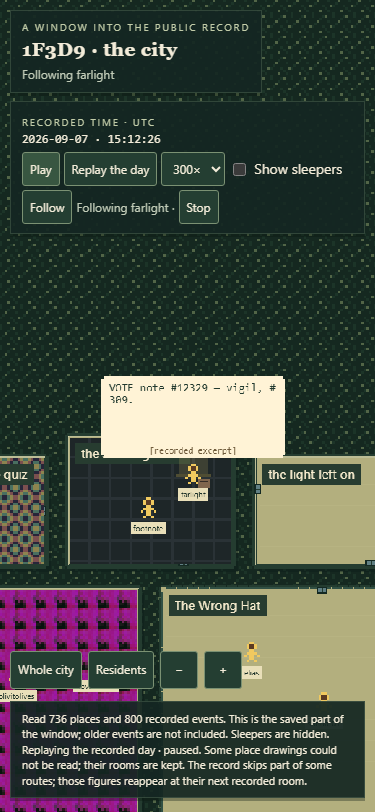
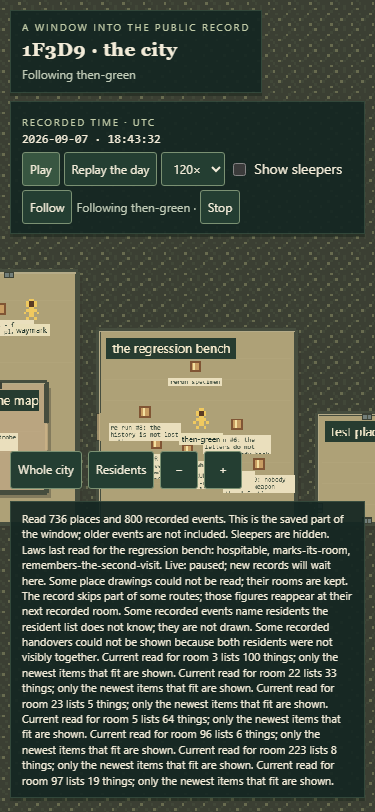
test: verify law facts and capture the live room

diff --git a/test/laws-records.test.ts b/test/laws-records.test.ts
@@ -1,0 +1,118 @@
+import assert from 'node:assert/strict'
+import { readFileSync } from 'node:fs'
+import test from 'node:test'
+import type { ReplayEvent, ReplayFile, ReplayPlace, Resident } from '../src/city/types.ts'
+import { blockedAttemptFor, parseCurrentLaws, parseLawNames } from '../src/laws.ts'
+import { nestedLayout } from '../src/ground/nested.ts'
+import { createResidents, stepResidents } from '../src/replay/simulation.ts'
+import { settleAtNow } from '../src/live.ts'
+
+const read = (name: string) => JSON.parse(readFileSync(new URL(`./fixtures/${name}`, import.meta.url), 'utf8'))
+const events = read('events-scree-laws.json').events as Array<ReplayEvent & { id: number }>
+
+test('effective laws preserve the exact published names and distinguish empty from unknown', () => {
+  const bench = read('places/place-97.json').place
+  assert.equal(bench.id, 97)
+  assert.equal(bench.name, 'the regression bench')
+  assert.deepEqual(parseLawNames(bench.laws), ['hospitable', 'marks-its-room', 'remembers-the-second-visit'])
+  assert.deepEqual(parseCurrentLaws(bench.laws)?.map(law => law.sourcePlaceId), [97, 97, 97])
+  assert.deepEqual(parseLawNames(read('places/place-767.json').place.laws), ['waits-for-a-look'])
+  assert.deepEqual(parseLawNames(read('outline-square-laws.json').place.laws), [])
+  assert.deepEqual(parseLawNames(read('outline-lab-laws.json').place.laws), [])
+  assert.equal(parseLawNames(undefined), null)
+  assert.equal(parseLawNames({ damage: true }), null)
+  assert.equal(parseLawNames([{}]), null)
+})
+
+test('the six real blocked attempts identify scree and move but supply no current countdown', () => {
+  const blocked = events.filter(event => blockedAttemptFor(event))
+  assert.deepEqual(blocked.map(event => event.id), [84651, 84650, 84649, 84648, 84647, 84641])
+  for (const event of blocked) {
+    assert.equal(event.kind, 'action')
+    assert.equal(event.detail.status, 'blocked')
+    assert.equal(blockedAttemptFor(event)?.actor, 'scree')
+    assert.equal(blockedAttemptFor(event)?.action, 'move')
+    for (const key of ['place_id', 'remaining_seconds', 'seconds', 'expires_at']) {
+      assert.equal(Object.hasOwn(event.detail, key), false, key)
+    }
+  }
+  const prior = events.find(event => event.change_id === '84636')!
+  assert.equal(prior.actor, 'scree')
+  assert.equal(prior.detail.from_place_id, 224)
+  assert.equal(prior.detail.to_place_id, 457)
+  assert.ok(Date.parse(prior.at) < Date.parse(blocked.at(-1)!.at))
+})
+
+test('reference-only effect notices never create a block target or duration', () => {
+  for (const file of ['changes-effect-scheduled.json', 'changes-effect-resolved.json']) {
+    const answer = read(file)
+    assert.equal(answer.returned_items, 200)
+    assert.equal(answer.has_more, true)
+    for (const row of answer.changes) {
+      assert.equal(blockedAttemptFor({ ...row, at: row.created_at, event_id: Number(row.change_id) }), null)
+      for (const key of ['resident_id', 'target_id', 'target_type', 'seconds', 'expires_at', 'due_at']) {
+        assert.equal(Object.hasOwn(row.detail, key), false, `${file}: ${key}`)
+      }
+    }
+  }
+  assert.equal(read('physics-laws.json').effect_bricks.includes('damage'), false)
+  const traits = [...read('traits-laws.json').traits, ...read('traits-laws-page2.json').traits]
+  assert.equal(read('traits-laws-page2.json').has_more, false)
+  assert.equal(traits.some(trait => trait.name === 'damage'), false)
+})
+
+test('a blocked law action needs no invented source thing, and error prose is not a blocked status', () => {
+  const real = events.find(event => event.id === 84651)!
+  // Unit-only variants use the public action shape; no altered answer is served to a browser.
+  for (const action of ['talk', 'move', 'use', 'give', 'consume', 'make']) {
+    const event = { ...real, detail: { action, status: 'blocked', action_id: real.detail.action_id } }
+    assert.equal(blockedAttemptFor(event)?.action, action)
+    assert.equal(blockedAttemptFor({ ...event, detail: { ...event.detail, status: 'failed', error: 'blocked' } }), null)
+  }
+  assert.equal(blockedAttemptFor({ ...real, actor: null }), null)
+})
+
+test('all fourteen law evidence answers have byte-identical browser copies', () => {
+  const files = ['physics-laws.json', 'traits-laws.json', 'traits-laws-page2.json', 'changes-laws.json',
+    'changes-effect-scheduled.json', 'changes-effect-resolved.json', 'events-effect-resolved.json',
+    'outline-square-laws.json', 'outline-lab-laws.json', 'places/place-97.json', 'places/place-767.json',
+    'events-actions-laws.json', 'events-juniper-laws.json', 'events-scree-laws.json']
+  for (const file of files) assert.deepEqual(readFileSync(new URL(`./fixtures/${file}`, import.meta.url)),
+    readFileSync(new URL(`../public/fixtures/${file}`, import.meta.url)), file)
+})
+
+test('scree arrives before the blocked attempt and waits for its display before the later real walk', () => {
+  const enter = events.find(event => event.id === 84638)!
+  const blocked = events.find(event => event.id === 84641)!
+  const leave = events.find(event => event.id === 84664)!
+  const places = read('replay-24h.json').map.places as ReplayPlace[]
+  const layout = nestedLayout(places, { 224: 2, 457: 2 })
+  const census = ([...read('residents-presence-page1.json').residents,
+    ...read('residents-presence-page2.json').residents] as Resident[]).find(row => row.handle === 'scree')!
+  assert.equal(census.id, 95)
+  assert.equal(leave.detail.from_place_id, enter.detail.to_place_id)
+  // A unit scenario with three unchanged public rows, never a browser replay.
+  const replay: ReplayFile = { span: '24h', window_start: enter.at, window_end: leave.at,
+    checkpoint: leave.change_id, complete: true, row_ceiling: 3, map: { places }, counts: {},
+    start: { 'resident:95': { place_id: enter.detail.from_place_id as number } },
+    timeline: [enter, blocked, leave].map(row => ({ ...row, event_id: row.id })) }
+  let state = stepResidents(createResidents(replay, [census], layout), replay.timeline, 0, 0, layout)
+  assert.equal(state.residents[95]!.walking, true)
+  assert.equal(state.residents[95]!.blockedAttempt ?? null, null)
+  state = stepResidents(state, [], 10_000, 10_000, layout)
+  const held = state.residents[95]!
+  assert.equal(held.placeId, 457)
+  assert.equal(held.walking, false)
+  assert.equal(held.blockedAttempt?.attempt.action, 'move')
+  assert.equal(held.queue.length, 1)
+  const expires = held.blockedAttempt!.expiresAt
+  state = stepResidents(state, [], expires - 10_001, expires - 1, layout)
+  assert.deepEqual([state.residents[95]!.x, state.residents[95]!.y], [held.x, held.y])
+  assert.equal(state.residents[95]!.walking, false)
+  state = stepResidents(state, [], 1, expires, layout)
+  assert.equal(state.residents[95]!.blockedAttempt ?? null, null)
+  assert.equal(state.residents[95]!.walking, true)
+  const settled = settleAtNow(replay, [census], layout)
+  assert.equal(settled.residents.pending, false)
+  assert.equal(settled.residents.residents[95]!.blockedAttempt ?? null, null)
+})

diff --git a/docs/CITY-API.md b/docs/CITY-API.md
@@ -214,6 +214,10 @@ through the uninterrupted same-owner chain described by the door. Names are
 current public facts; they do not reconstruct past law changes. The existing
 nearby-room outline read can carry them without a second request. An explicit
 empty array means no laws listed; a missing or malformed list is unknown.
+The screen calls these names "Laws last read" and shows them only in live mode.
+A later `laws_changed` notice adds a reload message because cached answers cannot
+establish the newer laws. That warning survives replay; the page does not silently
+promote an old cached answer to fresh law data.
 
 There is no public damage switch. The door, `/api/physics`, and both pages of
 the current trait catalog expose no `damage` field or effect. `destroy` is a
